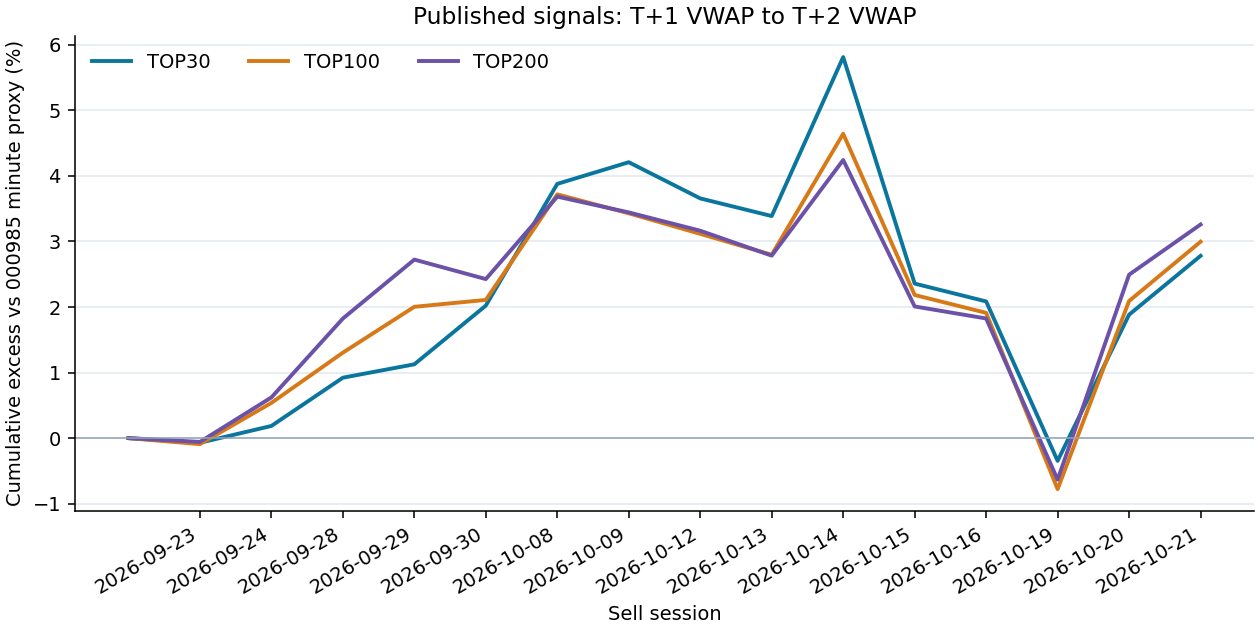
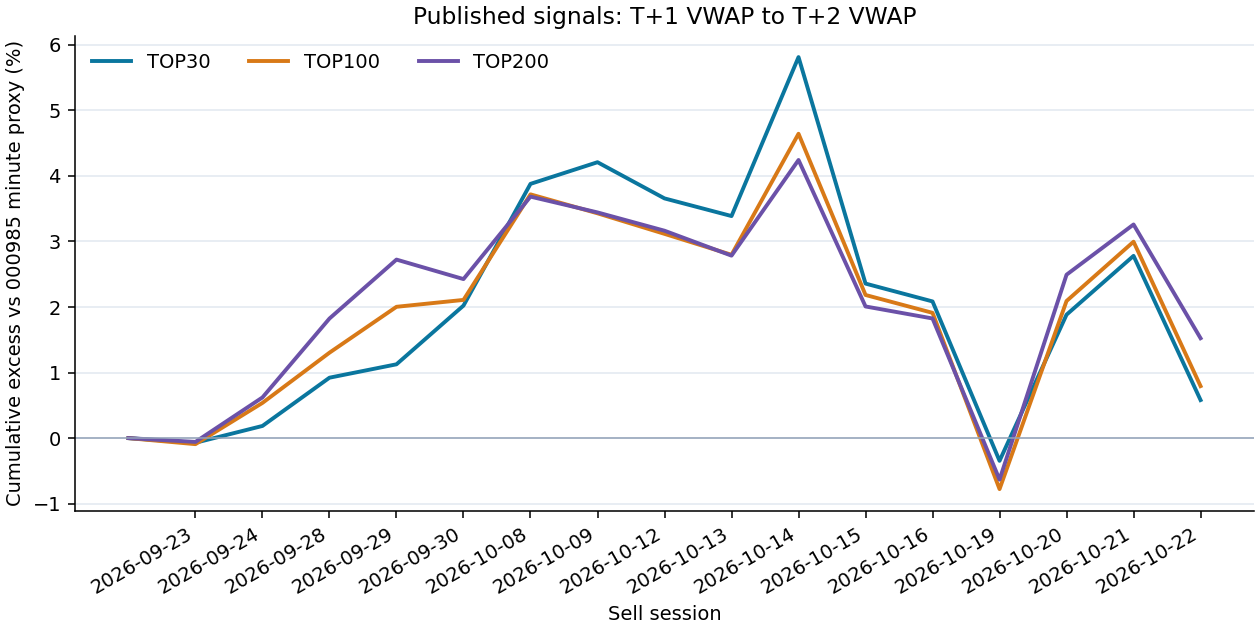
Update published signal performance through 2026-10-22

Changed region(s): [[0.1548, 0.0905, 0.9595, 0.7841], [0.0619, 0.8444, 0.8976, 0.9349]]

diff --git a/README.md b/README.md
@@ -17,13 +17,13 @@ CSV 编码为 UTF-8 BOM，按 `signal` 降序排列。
 <!-- PUBLIC_PERFORMANCE_START -->
 ## 已发布信号的历史表现
 
-仅统计本仓库 `signals/YYYY-MM-DD.csv` 已上传且买卖两日行情均完整的信号；截至 **2026-10-21**，共有 **15** 个已完成信号日，另有 **2** 个待结算或数据未齐。样本很短，暂无统计显著性结论。
+仅统计本仓库 `signals/YYYY-MM-DD.csv` 已上传且买卖两日行情均完整的信号；截至 **2026-10-22**，共有 **16** 个已完成信号日，另有 **2** 个待结算或数据未齐。样本很短，暂无统计显著性结论。
 
 | 组合 | 已完成信号日 | 组合累计收益 | 000985同期收益 | 累计超额 |
 |---|---:|---:|---:|---:|
-| TOP30 | 15 | -8.24% | -10.72% | +2.78% |
-| TOP100 | 15 | -8.05% | -10.72% | +3.00% |
-| TOP200 | 15 | -7.81% | -10.72% | +3.26% |
+| TOP30 | 16 | -11.98% | -12.49% | +0.58% |
+| TOP100 | 16 | -11.80% | -12.49% | +0.79% |
+| TOP200 | 16 | -11.16% | -12.49% | +1.52% |
 
 ![TOP30、TOP100、TOP200 累计超额净值](performance/excess_nav.png)
 
@@ -33,7 +33,6 @@ CSV 编码为 UTF-8 BOM，按 `signal` 降序排列。
 
 | 信号日 | 卖出日 | TOP30 | TOP100 | TOP200 |
 |---|---|---:|---:|---:|
-| 2026-09-29 | 2026-10-08 | +180.63 | +156.52 | +121.89 |
 | 2026-09-30 | 2026-10-09 | +31.18 | -27.33 | -22.80 |
 | 2026-10-08 | 2026-10-12 | -53.19 | -30.43 | -27.09 |
 | 2026-10-09 | 2026-10-13 | -25.56 | -30.50 | -36.28 |
@@ -43,6 +42,7 @@ CSV 编码为 UTF-8 BOM，按 `signal` 降序排列。
 | 2026-10-15 | 2026-10-19 | -236.30 | -261.74 | -239.53 |
 | 2026-10-16 | 2026-10-20 | +224.57 | +290.26 | +315.78 |
 | 2026-10-19 | 2026-10-21 | +88.42 | +88.98 | +75.06 |
+| 2026-10-20 | 2026-10-22 | -209.83 | -209.68 | -164.75 |
 
 ![TOP30、TOP100、TOP200 逐日超额](performance/daily_excess.png)
 
